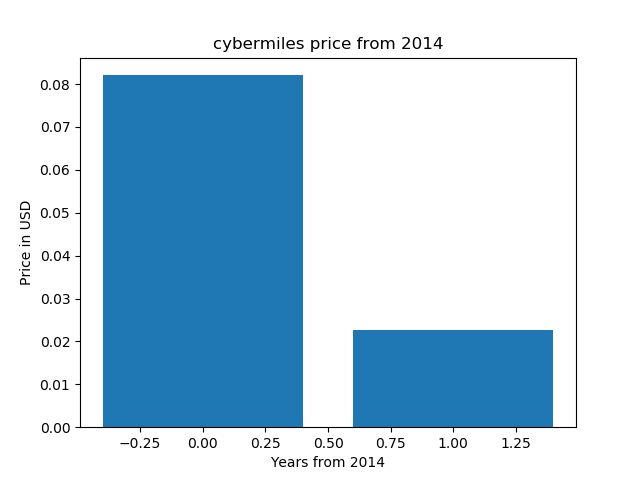
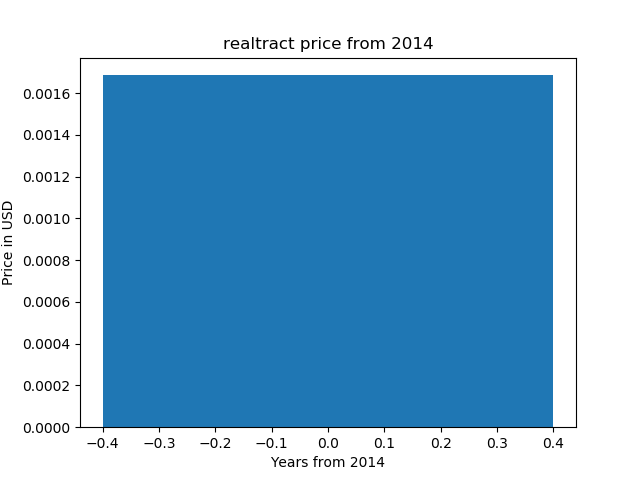
first commit

diff --git a/example.py b/example.py
@@ -10,7 +10,7 @@ from time import gmtime, strftime
 import matplotlib.pyplot as plt
 
 enddate = strftime("%Y%m%d", gmtime())
-r  = requests.get("https://coinmarketcap.com/currencies/cybermiles/historical-data/?start=20140101&end={0}".format(enddate))
+r  = requests.get("https://coinmarketcap.com/currencies/realtract/historical-data/?start=20140101&end={0}".format(enddate))
 data = r.text
 
 soup = BeautifulSoup(data, "html.parser")
@@ -44,7 +44,7 @@ print(x)
 
 x = list(range(0, len(prices)))
 
-plt.title('cybermiles price from 2014')
+plt.title('realtract price from 2014')
 plt.ylabel('Price in USD')
 plt.xlabel('Years from 2014')
 plt.bar(x, prices)

diff --git a/README.md b/README.md
@@ -1,6 +1,6 @@
-# cybermiles price chart 
+# realtract price chart 
 
-cybermiles price chart (matplotlib, python)
+realtract price chart (matplotlib, python)
 
 https://pythonprogramminglanguage.com
 
